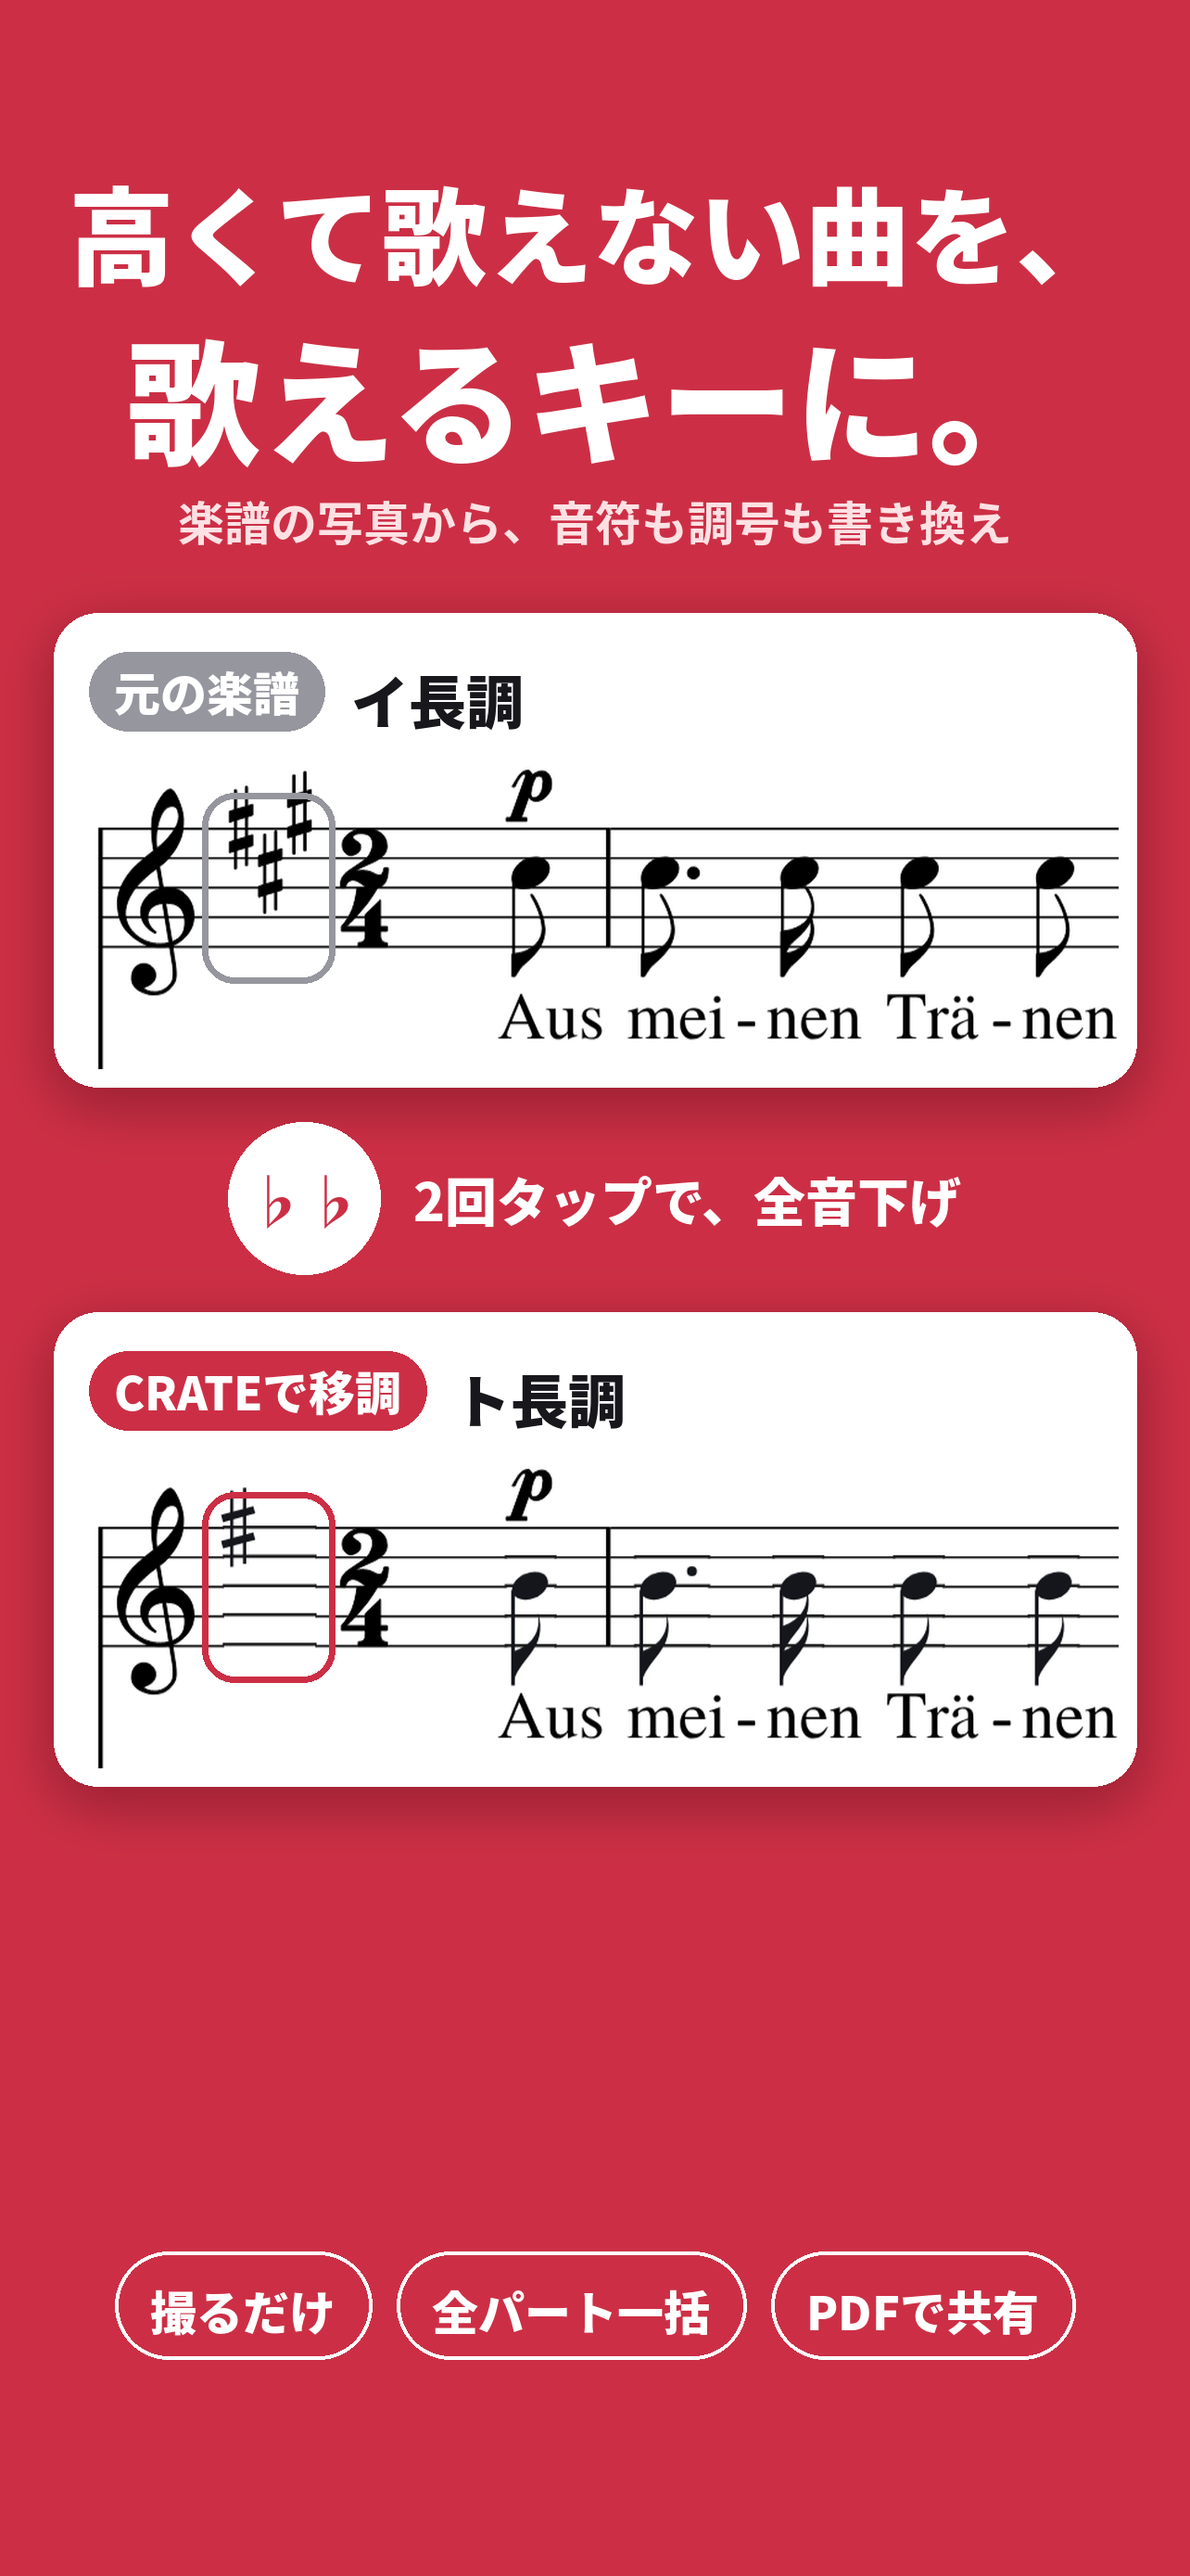
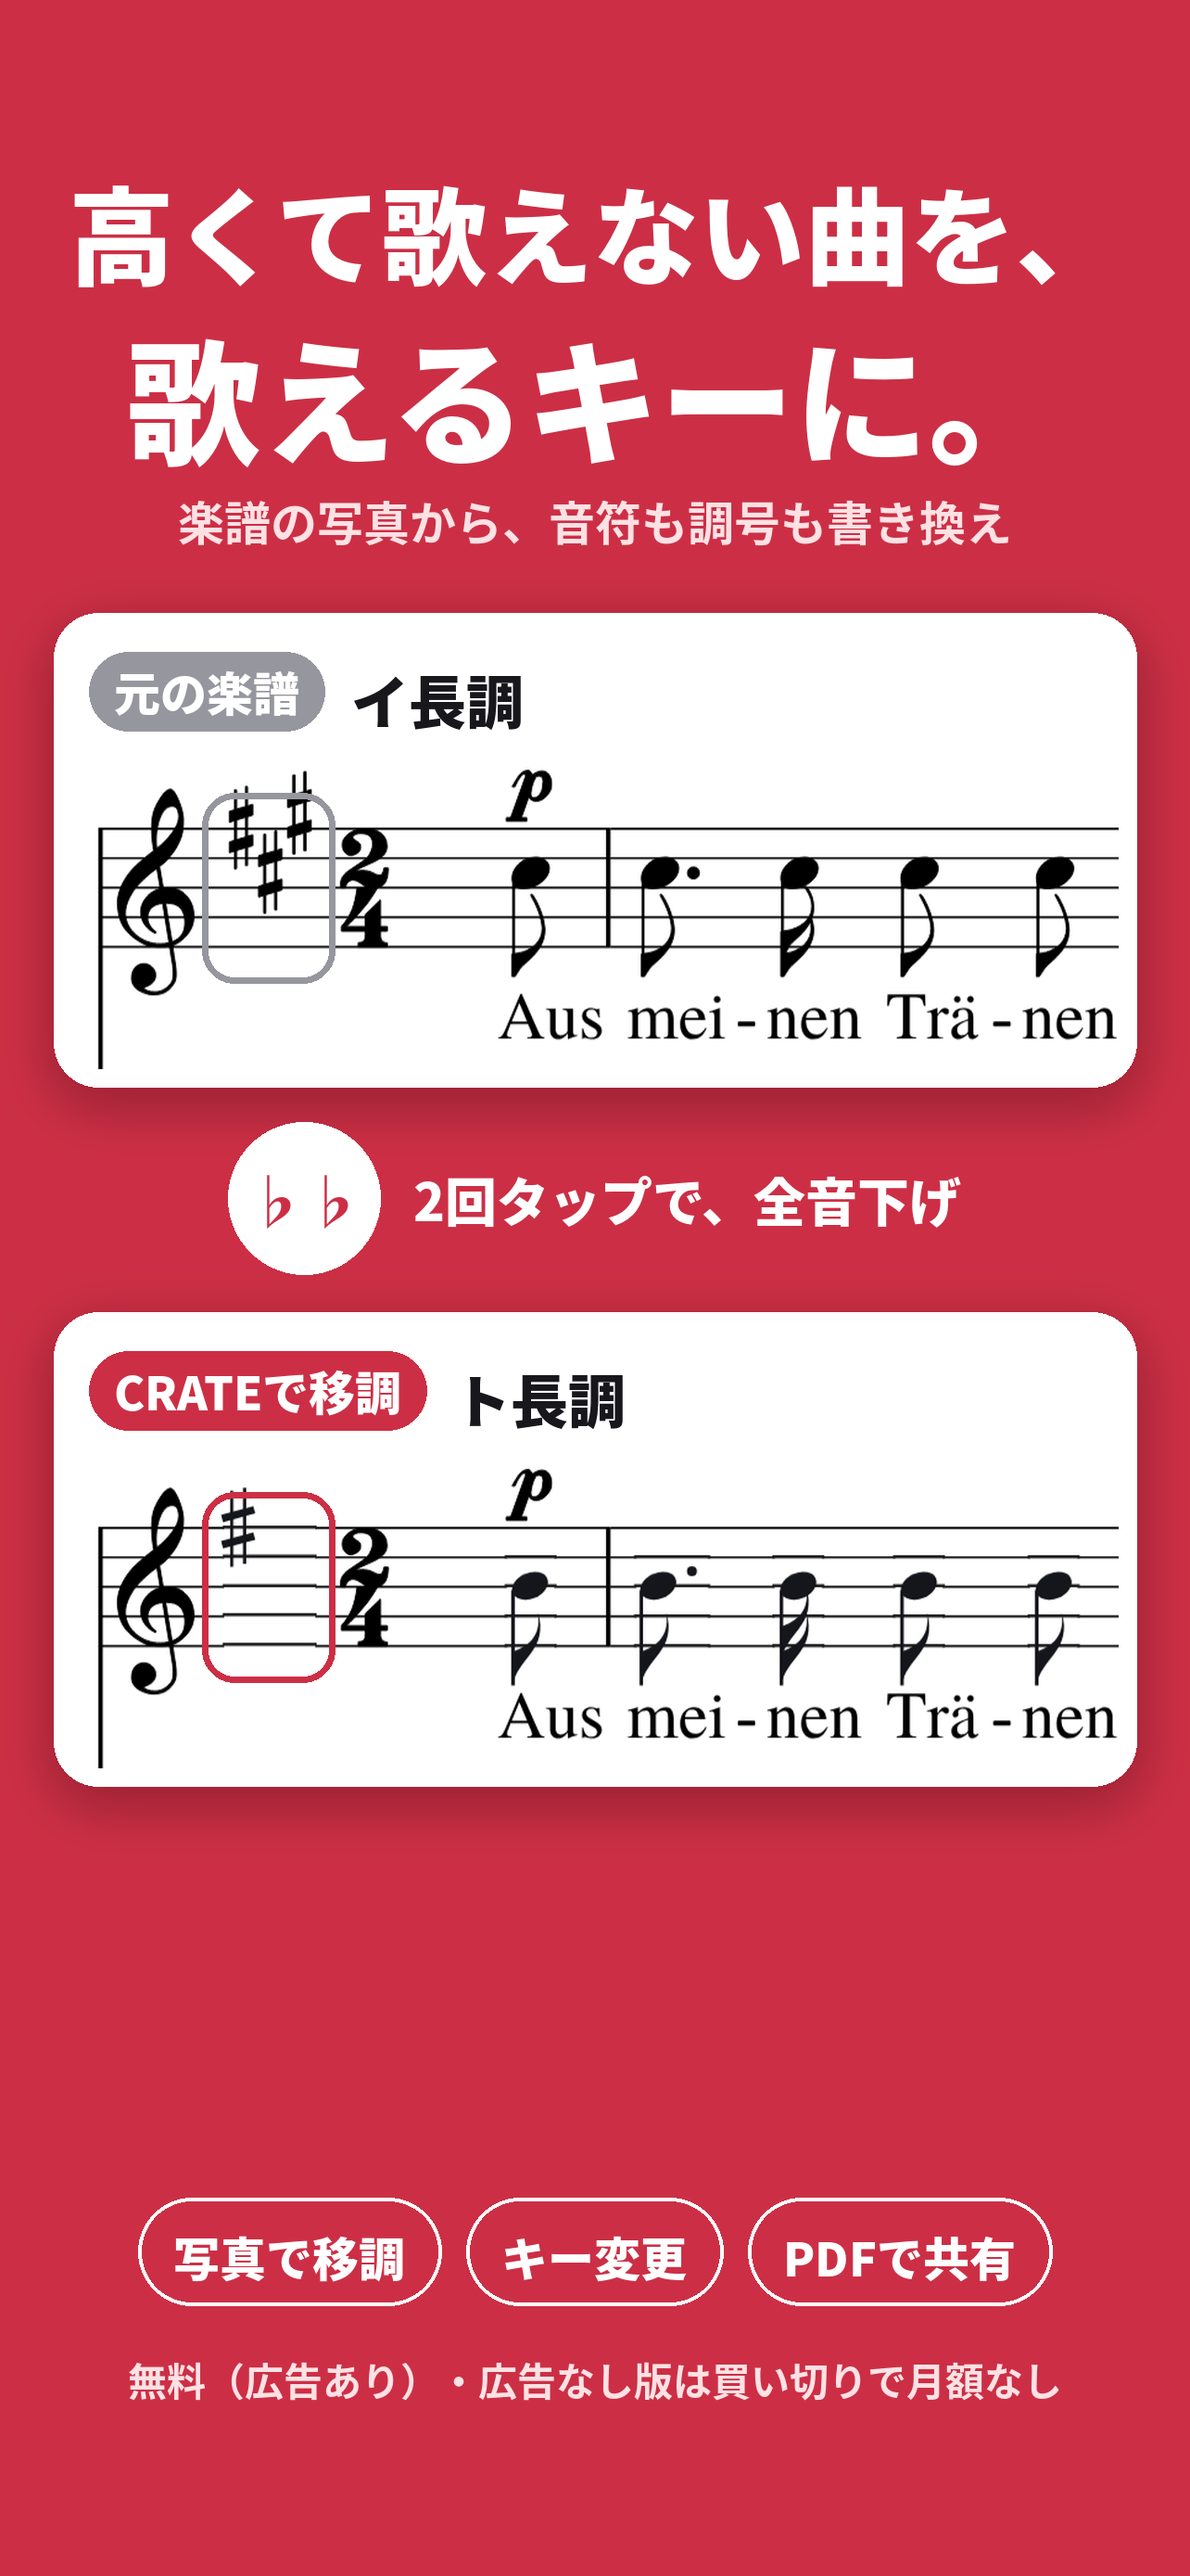
Shot 1: chips 写真で移調/キー変更/PDFで共有 + plain pricing line (free with ads, one-time no-ads, no subscription) — main, CPPs, Play
Claude-Session: https://claude.ai/code/session_0132XAgTJ8toTBqkVbeQ5Rt5

Changed region(s): [[0.0935, 0.8668, 0.9034, 0.9287]]

diff --git a/app/scripts/shot1.py b/app/scripts/shot1.py
@@ -61,13 +61,15 @@ def render(W, H, before, after, head=HEAD):
     af = f(SANS_B, S(64)); s = "♭♭"
     d.text((gx + r - d.textlength(s, font=af) / 2, ay + r - S(46)), s, font=af, fill=RED)
     d.text((gx + 2 * r + S(36), ay + r - S(42)), s2, font=lf, fill=WHITE)
-    by = H - S(360)
-    items = ["撮るだけ", "全パート一括", "PDFで共有"]
+    by = H - S(420)
+    items = ["写真で移調", "キー変更", "PDFで共有"]
     bf = f(SANS_B, S(52)); gap = S(28)
     ws = [d.textlength(t, font=bf) + S(80) for t in items]; x = (W - sum(ws) - gap * 2) / 2
     for t, w_ in zip(items, ws):
         d.rounded_rectangle((x, by, x + w_, by + S(120)), S(60), outline=WHITE, width=S(5))
         d.text((x + S(40), by + S(28)), t, font=bf, fill=WHITE); x += w_ + gap
+    # pricing model in plain words (no amount — the price may change): free with ads, one-time purchase removes them
+    ctext(d, by + S(170), "無料（広告あり）・広告なし版は買い切りで月額なし", f(SANS_M, S(44)), (255, 225, 228), W)
     return im.convert("RGB")
 
 
